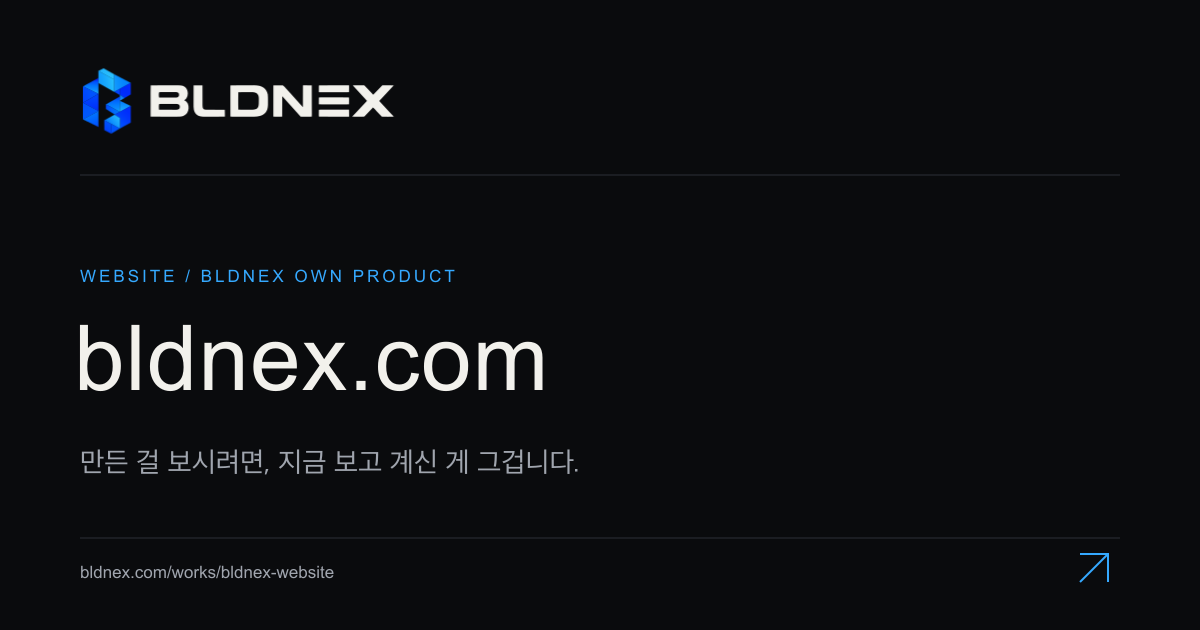
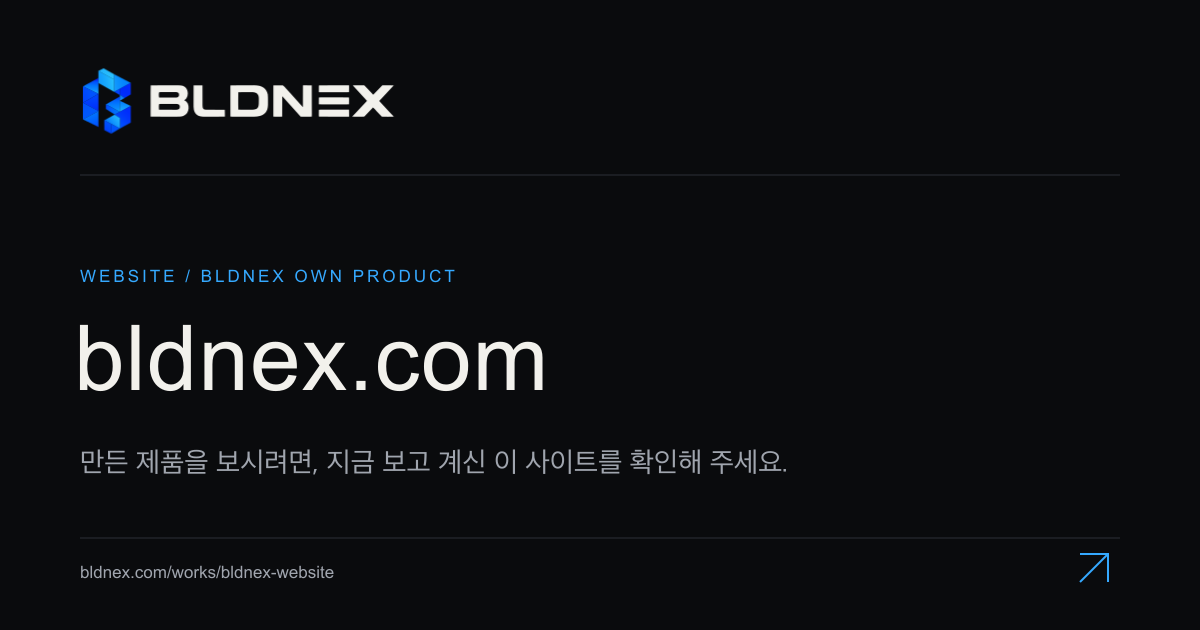
refactor(copy): refine website copy to remove AI clichés and adopt confident builder voice

Changed region(s): [[0.0925, 0.6937, 0.6475, 0.754]]

diff --git a/src/data/site.ts b/src/data/site.ts
@@ -22,14 +22,14 @@ export const contactHref = `mailto:${site.email}?subject=${encodeURIComponent('[
  * ogImageAlt는 이미지에 실제로 그려진 문구를 그대로 옮깁니다.
  */
 export const pageMeta = {
-  home: { title: "BLDNEX — BUILD WHAT'S NEXT", description: '웹사이트, SaaS, 모바일 앱을 만드는 제품 개발 스튜디오 BLDNEX. 아이디어 정리부터 디자인, 개발, 출시 준비까지 함께합니다.', ogImage: '/assets/brand/og-bldnex.png', ogImageAlt: 'BLDNEX — BUILD WHAT’S NEXT. 웹사이트 · SaaS · 모바일 앱' },
-  about: { title: 'About — 제품을 만드는 방식 · BLDNEX', description: 'PreviewLog와 Shuffo를 직접 개발하고 운영하는 BLDNEX. 만들고 운영해 본 경험으로 고객의 제품에 지금 필요한 것을 구분해 만드는 방식을 소개합니다.', ogImage: '/assets/brand/og-about.png', ogImageAlt: 'BLDNEX About — We build our own. 직접 만들고 운영해 본 경험으로 고객의 제품을 만듭니다.' },
+  home: { title: "BLDNEX — BUILD WHAT'S NEXT", description: '웹사이트, SaaS, 모바일 앱을 만드는 제품 개발 스튜디오 BLDNEX. 요구사항 정의부터 UI 디자인, 개발, 배포까지 제품 론칭에 필요한 전 과정을 만듭니다.', ogImage: '/assets/brand/og-bldnex.png', ogImageAlt: 'BLDNEX — BUILD WHAT’S NEXT. 웹사이트 · SaaS · 모바일 앱' },
+  about: { title: 'About — 제품을 만드는 방식 · BLDNEX', description: 'PreviewLog와 Shuffo를 직접 개발하고 배포한 BLDNEX. 자체 제품을 만들며 축적한 실전 기준과 협업 방식을 소개합니다.', ogImage: '/assets/brand/og-about.png', ogImageAlt: 'BLDNEX About — We build our own. 직접 만들고 운영해 본 경험으로 고객의 제품을 만듭니다.' },
   services: { title: 'Services — 웹사이트·SaaS·앱 개발 · BLDNEX', description: '기업·브랜드 웹사이트, 웹앱과 SaaS, 모바일 앱을 개발합니다. 프로젝트에 맞는 제공 범위와 산출물, 협업 방식을 살펴보세요.', ogImage: '/assets/brand/og-services.png', ogImageAlt: 'BLDNEX Services — Websites. Apps. SaaS. 웹사이트 · 웹앱/SaaS · 모바일 앱 개발' },
   works: { title: 'Works — BLDNEX의 자체 제품', description: '촬영본 정리 도구 PreviewLog와 모바일 퍼즐 Shuffo. BLDNEX가 만드는 제품과 각각의 사용 흐름을 소개합니다.', ogImage: '/assets/brand/og-works.png', ogImageAlt: 'BLDNEX Works — Our own products. PreviewLog · Shuffo' },
   previewlog: { title: 'PreviewLog — 촬영본을 프리뷰 자료로 · BLDNEX', description: '대표 컷, 대사, 타임코드를 정리하고 편집용 자료로 내보내는 데스크톱 앱 PreviewLog. 제품의 검토 흐름과 결과물을 소개합니다.', ogImage: '/assets/brand/og-previewlog.png', ogImageAlt: 'BLDNEX PreviewLog — 촬영본을 편집용 프리뷰 자료로.' },
   shuffo: { title: 'Shuffo — 사진으로 즐기는 퍼즐 · BLDNEX', description: '사진으로 즐기는 iPhone용 퍼즐 Shuffo. BLDNEX가 만든 모바일 게임의 화면을 살펴보세요.', ogImage: '/assets/brand/og-shuffo.png', ogImageAlt: 'BLDNEX Shuffo — 좋아하는 사진이 작은 퍼즐이 됩니다.' },
   contact: { title: 'Contact — 프로젝트 문의 · BLDNEX', description: '만들고 싶은 웹사이트, SaaS, 앱과 현재 상황을 알려주세요. 프로젝트 문의에 필요한 정보와 협업에 관한 질문을 안내합니다.', ogImage: '/assets/brand/og-contact.png', ogImageAlt: 'BLDNEX Contact — Tell us what you’re building. BLDNEX.DEV@GMAIL.COM' },
-  'bldnex-website': { title: 'bldnex.com — 이 웹사이트를 만든 방법 · BLDNEX', description: 'BLDNEX 웹사이트의 기술 구성과 빌드할 때 실제로 측정한 용량, 외부 요청 수, 자동 검수 항목을 공개합니다.', ogImage: '/assets/brand/og-bldnex-website.png', ogImageAlt: 'BLDNEX bldnex.com — 만든 걸 보시려면, 지금 보고 계신 게 그겁니다.' },
+  'bldnex-website': { title: 'bldnex.com — 이 웹사이트를 만든 방법 · BLDNEX', description: 'BLDNEX 웹사이트의 기술 구성과 빌드할 때 실제로 측정한 용량, 외부 요청 수, 자동 검수 항목을 공개합니다.', ogImage: '/assets/brand/og-bldnex-website.png', ogImageAlt: 'BLDNEX bldnex.com — 만든 제품을 보시려면, 지금 보고 계신 이 사이트를 확인해 주세요.' },
 };
 
 export const publicPaths = ['/', '/about', '/services', '/works', '/works/previewlog', '/works/shuffo', '/works/bldnex-website', '/contact'];

diff --git a/src/data/services.ts b/src/data/services.ts
@@ -17,7 +17,7 @@ export const services = [
     shortTitle: '반복되는 업무를 제품으로 바꿉니다.',
     summary: '업무 도구, 관리자 화면, 구독형 서비스처럼 사용자의 행동과 데이터가 연결되는 웹앱을 만듭니다.',
     linkLabel: '웹앱·SaaS 개발 보기',
-    heading: ['반복되는 작업을,', '계속 사용할 수 있는 도구로.'],
+    heading: ['반복되는 작업을', '계속 사용할 수 있는 도구로.'],
     description: '업무 절차와 데이터를 사용하기 쉬운 화면과 기능으로 연결합니다. 처음 검증할 제품부터 관리자 시스템과 구독형 서비스까지, 핵심 사용자 흐름을 기준으로 구현 범위를 구체화합니다.',
     situations: ['새로운 서비스의 핵심 기능을 검증하고 싶을 때', '분산된 업무를 하나의 화면에서 관리하고 싶을 때', '사용자와 운영자가 함께 쓰는 시스템이 필요할 때'],
     scope: ['MVP', '업무 도구', '관리자 화면', '인증·권한', '데이터 관리', '외부 서비스 연동'],
@@ -27,11 +27,11 @@ export const services = [
   },
   {
     id: 'mobile-apps', number: '03', name: 'Mobile Apps',
-    shortTitle: '손안의 작은 흐름까지 설계합니다.',
-    summary: '첫 화면에서 핵심 기능을 사용하는 순간까지. iOS·Android 사용 환경에 맞는 앱을 설계하고 개발합니다.',
+    shortTitle: '직관적인 인터페이스와 안정적인 동작.',
+    summary: 'iOS와 Android 환경에 맞춰 불필요한 터치를 줄이고, 매끄럽게 동작하는 모바일 앱을 설계하고 개발합니다.',
     linkLabel: '모바일 앱 개발 보기',
-    heading: ['작은 화면에서 시작되는', '제품의 경험을 만듭니다.'],
-    description: '첫 진입부터 핵심 기능을 사용하는 순간까지, 손안에서 이어지는 흐름을 설계합니다. iOS·Android의 사용 환경과 필요한 기기 기능을 고려해 앱을 개발합니다.',
+    heading: ['설치부터 첫 사용까지,', '직관적인 모바일 경험을 만듭니다.'],
+    description: '앱을 켜고 핵심 기능을 쓰는 과정에서 불필요한 터치를 줄입니다. iOS와 Android 각각의 가이드라인에 맞춰 안정적이고 빠른 네이티브 경험을 구현합니다.',
     situations: ['스마트폰에서 자주 사용하는 서비스가 필요할 때', '사진 등 기기 기능과 연결된 경험을 만들고 싶을 때', '모바일 중심으로 첫 제품을 검증하고 싶을 때'],
     scope: ['앱 UX·UI', '핵심 기능', '필요한 API 연결', '기기별 검수', '스토어 출시 준비'],
     outputs: '주요 화면 설계, 앱 빌드, 기능 검수 결과, 출시 준비 자료',

diff --git a/src/data/faq.ts b/src/data/faq.ts
@@ -3,7 +3,7 @@ export const faqs = [
   { question: '비용과 기간은 어떻게 정하나요?', answer: '기능 범위, 디자인과 콘텐츠 준비 상태, 외부 연동, 대상 플랫폼에 따라 달라집니다. 희망 일정과 예산을 알려주시면 우선순위를 살펴보고 협의할 범위를 정리합니다. 구체적인 견적과 일정은 요구사항을 확인한 뒤 안내합니다.' },
   { question: '기존 서비스의 일부 개선도 가능한가요?', answer: '현재 서비스의 구조와 필요한 변경 내용을 먼저 확인합니다. 기존 코드와 운영 환경에 따라 가능한 범위가 달라질 수 있으니, 서비스 주소와 개선하고 싶은 부분을 함께 알려주세요.' },
   { question: '디자인이나 개발만 맡길 수도 있나요?', answer: '이미 준비된 자료와 필요한 역할을 확인한 뒤 참여 범위를 협의할 수 있습니다. 디자인 파일, 기획서, 기존 코드 등 준비된 자료의 상태를 알려주세요.' },
-  { question: '진행 상황은 어떻게 확인하나요?', answer: '시작할 때 공유 방식과 확인 시점을 정합니다. 화면과 기능 등 단계별 결과물을 함께 확인하고, 변경 요청은 범위와 일정에 미치는 영향을 살펴 반영합니다.' },
+  { question: '진행 상황은 어떻게 확인하나요?', answer: '정기적인 공유 일정에 맞춰 실제 브라우저와 기기에서 동작하는 프리뷰 화면을 보내드립니다. 직접 만져보며 주시는 피드백을 바탕으로 우선순위를 조율해 반영합니다.' },
   { question: '소스코드와 결과물은 어떻게 전달받나요?', answer: '전달할 결과물과 소스코드의 범위, 접근 권한은 계약 단계에서 정합니다. 외부 서비스 계정이나 유료 라이선스가 필요한 경우에도 운영 주체와 비용을 함께 확인합니다.' },
   { question: '출시 후 유지보수도 맡길 수 있나요?', answer: '출시 후 필요한 운영 지원과 개선 범위는 별도로 협의합니다. 오류 대응, 기능 추가, 콘텐츠 수정의 범위와 조건을 구분해 정합니다.' },
 ];

diff --git a/docs/wiki/decisions.md b/docs/wiki/decisions.md
@@ -303,3 +303,22 @@ Cloudflare Scrape Shield 의 Email Address Obfuscation 을 껐습니다.
 - **변경 후**: `기획부터 스토어 심사 통과까지, 실제 제품으로 완성했습니다.` (Apple 심사 통과 및 정식 스토어 론칭 실체 증명)
 - 관련 문서(`docs/wiki/proof-points.md`)의 설명도 작위적 대조 표현을 걷어내고 실물 배포 증명 맥락으로 일치시켰습니다.
 
+## 2026-10-07 — 사이트 전반 AI 문체 패턴 정밀 진단 및 실무 빌더 보이스로 전면 개선
+
+사이트 전반의 카피를 정밀 분석하여 AI 작성 특유의 결함(작위적 Not A but B 대조법, 기계적 3단 병렬 대구, '지금 필요한 것과 나중에 해도 되는 것' 등의 앵무새식 복붙 표현, 번역투 쉼표 남발, 공허한 추상 동사)을 걷어내고, 숙련된 프로덕트 빌더의 담백하고 전문적인 보이스로 전면 개선했습니다.
+
+1. **메인 홈 (`index.astro`)**:
+   - 히어로: 타깃 나열 및 상투적 종결을 걷어내고, 제품 개발 전 과정을 직접 완성한다는 명확한 역량 서술로 개선.
+   - Services/Process/Studio: 기계적 댓구(`~할 A, ~할 B, ~할 C`)와 '막연한 아이디어' 등 고객 평가절하 표현 제거, 앵무새식 중복 어구 정돈.
+2. **소개 (`about.astro`)**:
+   - 히어로 및 본문: 에세이풍의 감상적 수사("화면 하나와 기능 하나가...")와 부정-긍정 대조법을 제거하고, 자체 서비스 런칭에서 축적한 실전 기준 서술로 차별화.
+3. **서비스 (`services.astro` & `services.ts`)**:
+   - 헤어로: 클라이언트의 구상을 부정하는 대립 구도("만들고 싶은 것과 실제로 필요한 것을 연결합니다")를 지양하고 목적 지향적 완성도 표현으로 개선.
+   - 모바일 앱: 감상적 수사("손안에서 이어지는 흐름") 대신 불필요한 터치를 줄인 직관적인 네이티브 경험 중심으로 정돈.
+4. **작업물 (`bldnex-website.astro`, `[slug].astro`)**:
+   - bldnex.com: 훈계조 문장 및 반말성 의문문 CTA를 정중하고 신뢰감 있는 문장으로 개선.
+   - Shuffo App Store 섹션: 방어적인 수사("실제로 플레이할 수 있는 결과물")를 자연스러운 초대형 문구로 전환.
+5. **FAQ (`faq.ts`) & 메타데이터 (`site.ts`, `generate-og.mjs`)**:
+   - 진행 상황 확인 답변을 동작하는 프리뷰 화면 공유 기반으로 명확화하고, 페이지별 메타 설명 및 OG 이미지 카피를 개선 내용에 맞춰 완전 동기화.
+
+
